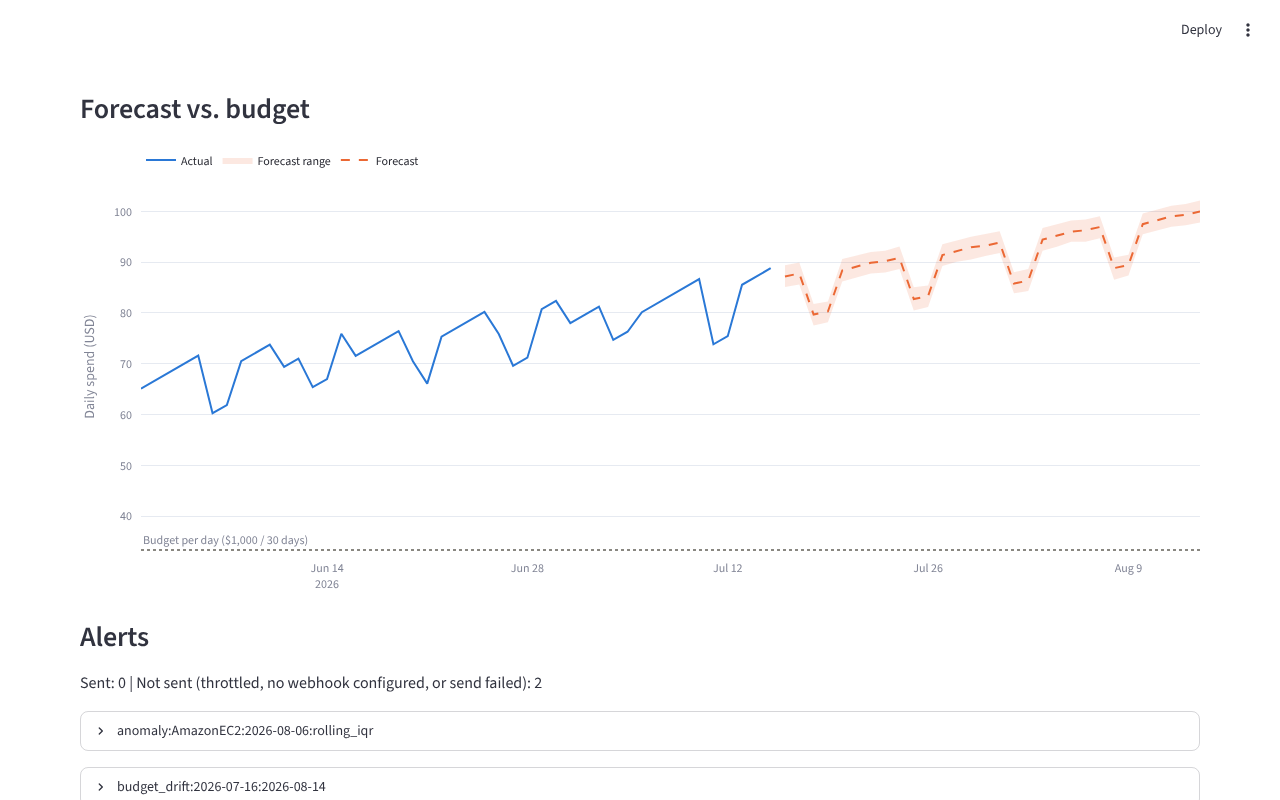
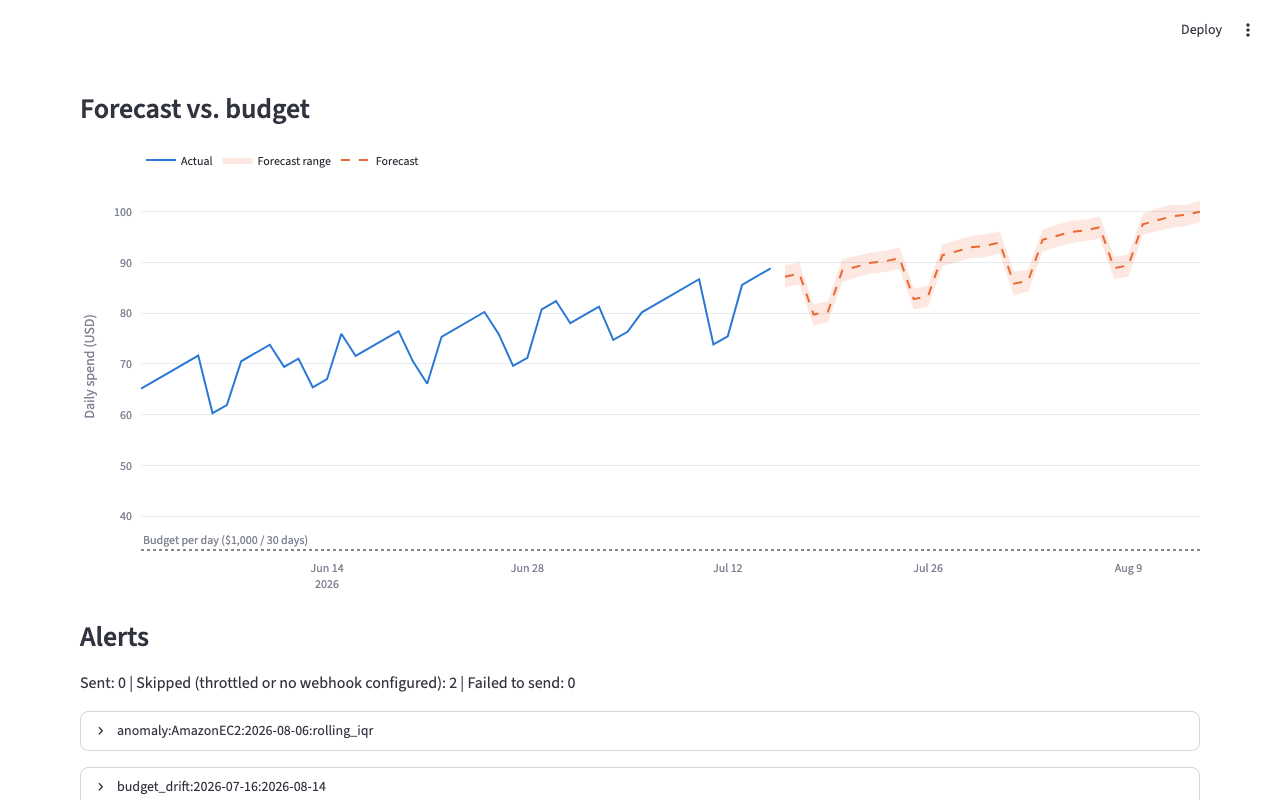
docs: document alert exit-code semantics and regenerate screenshots
Explains when ccs exits non-zero for alert delivery failures vs. when
it doesn't (unconfigured or throttled). Regenerates all dashboard and
CLI screenshots since the alert-count line they display changed.

diff --git a/README.md b/README.md
@@ -89,14 +89,24 @@ streamlit run src/cloud_cost_sentinel/dashboard/app.py   # interactive dashboard
 ```
 
 `ccs` prints a text report: anomalies found, the forecast vs. budget, and how
-many alerts were sent vs. not sent (no Slack webhook is configured by
+many alerts were sent, skipped, or failed (no Slack webhook is configured by
 default, so alerts are formatted but not actually posted — set
-`CCS_SLACK_WEBHOOK_URL` to send for real; a failed send is logged as a
-warning and counted as not sent). Pass `--anomaly-data` /
+`CCS_SLACK_WEBHOOK_URL` to send for real). Pass `--anomaly-data` /
 `--forecast-data` to point either step at a different CUR CSV; see
 `ccs --help`. The default fixture paths are relative, so run `ccs` from the
 repository root. A missing or malformed CUR file, or forecast data with
 fewer than 14 days of history, prints `ccs: error: ...` and exits 1.
+
+**Exit codes and alerting.** An alert that's skipped because no webhook is
+configured, or because an `AlertThrottle` already saw it this run, is not a
+failure — both are expected, intentional states — so it doesn't affect the
+exit code. An alert that `ccs` *tried* to send (a webhook is configured and
+the alert wasn't throttled) but that the webhook rejected or couldn't reach
+is a delivery failure: it's logged as a warning, counted separately from
+the skipped alerts in the report, and makes `ccs` print an error to stderr
+and exit 1 — otherwise a cron job could have every alert fail to send and
+still report success. See `run_pipeline`'s `PipelineResult.alerts_failed`
+below for the programmatic form.
 
 ## Usage
 
@@ -226,7 +236,11 @@ on it, then formats and dispatches a `BudgetAlert` for every anomaly and
 (only if `drift.over_budget`) one for the budget drift — accepting the same
 `throttle` and `webhook_client` injection points as `send_alert`, so it's
 tested with a fake client (see `tests/test_cli.py`) exactly like
-`alerting/slack.py` is.
+`alerting/slack.py` is. Each dispatched alert lands in exactly one of
+`PipelineResult.alerts_sent`, `.alerts_skipped` (no webhook configured, or
+throttled), or `.alerts_failed` (a webhook was configured, the alert wasn't
+throttled, and the send still failed) — `main` exits 1 when `alerts_failed`
+is non-empty.
 
 ### Dashboard
 
